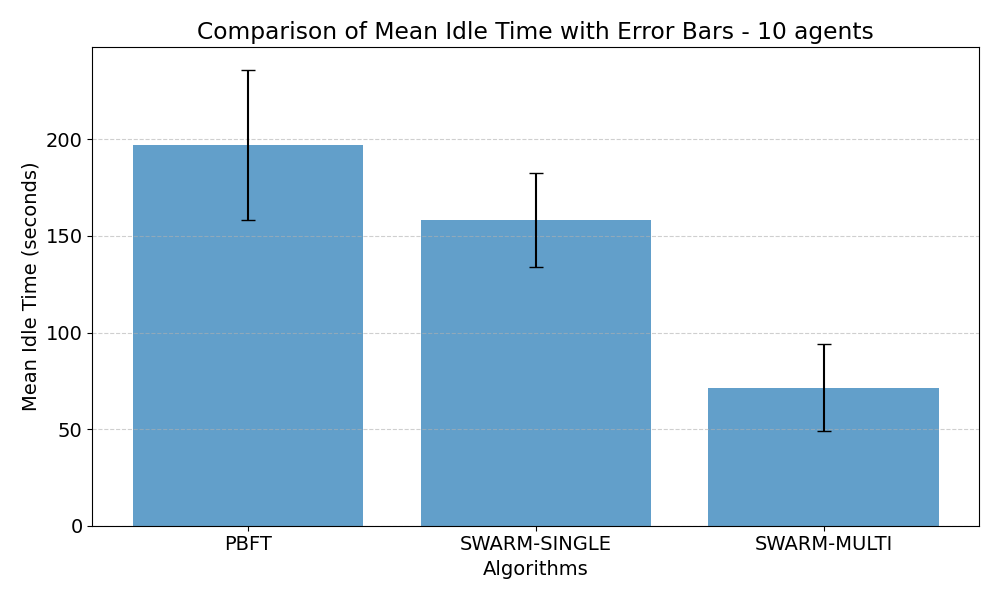
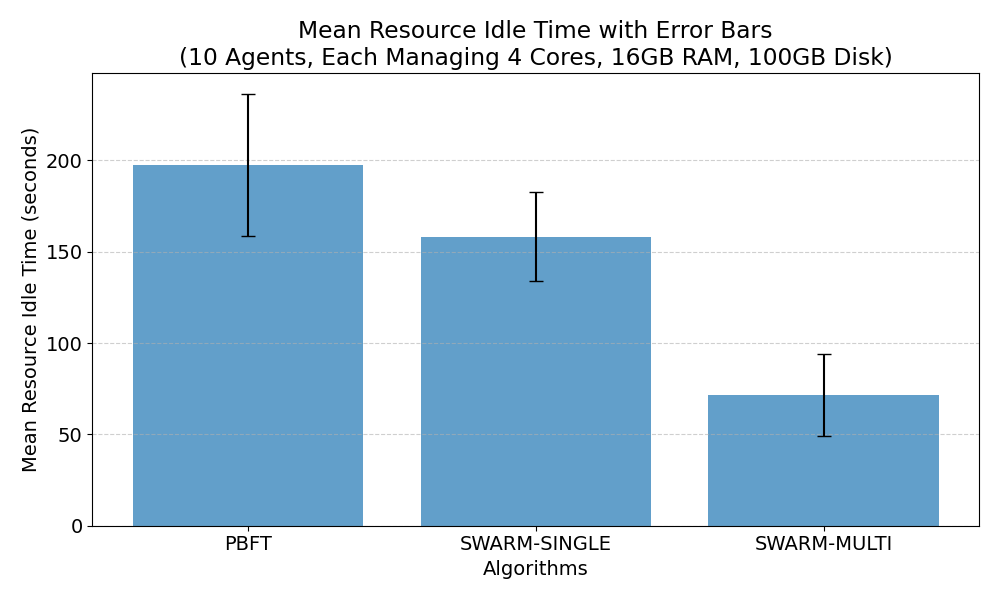
updated plots

diff --git a/runs/comparison.py b/runs/comparison.py
@@ -221,8 +221,10 @@ def plot_means_median_histogram_error_bars(data_list: List[Dict[str, Any]], numb
     plt.figure(figsize=(10, 6))
     plt.bar(x, means, yerr=np.array(ci_errors).T, capsize=5, alpha=0.7, tick_label=algorithms)
     plt.xlabel('Algorithms')
-    plt.ylabel('Mean Idle Time (seconds)')
-    plt.title(f'Comparison of Mean Idle Time with Error Bars - {number_of_agents} agents')
+    plt.ylabel('Mean Resource Idle Time (seconds)')
+    plt.title(f'Mean Resource Idle Time with Error Bars\n'
+              f'({number_of_agents} Agents, Each Managing 4 Cores, 16GB RAM, 100GB Disk)')
+    #plt.title(f'Comparison of Mean Idle Time with Error Bars - {number_of_agents} agents')
     plt.grid(axis='y', linestyle='--', alpha=0.6)
     plt.tight_layout()
     plt.savefig(f'histogram_idle_time_with_error_bars_{number_of_agents}.png')
@@ -409,7 +411,7 @@ def plots(number_of_agents: int):
     if number_of_agents == 10:
         data_raft = compute_metrics(run_directory=f"./raft/10/repeated",
                                     number_of_agents=10, algo="Raft")
-        data_list = [data_raft, data_swarm_multi]
+        data_list = [data_pbft, data_swarm_single, data_raft, data_swarm_multi]
         plot_means_median_line(number_of_agents=10, data_list=data_list, file_name_suffix="raft")
 
 

diff --git a/runs/comp-raft-swarm-pbft.py b/runs/comp-raft-swarm-pbft.py
@@ -5,7 +5,7 @@ import matplotlib.pyplot as plt
 # Define file paths for each algorithm and agent count
 raft_file_paths = ['./raft/3/scheduling_latency.csv',
                    './raft/5/scheduling_latency.csv',
-                   './raft/10/scheduling_latency.csv']
+                   './raft/10/repeated/run50/scheduling_latency_0.csv']
 pbft_file_paths = ['./pbft/3/repeated/run50/scheduling_latency_0.csv',
                    './pbft/5/repeated/run50/scheduling_latency_0.csv',
                    './pbft/10/repeated/run50/scheduling_latency_0.csv']
@@ -43,7 +43,7 @@ color_map = {
     "PBFT": "#1f77b4",
     "SWARM-SINGLE": "#ff7f0e",
     "SWARM-MULTI": "#2ca02c",
-    "Raft": "#d62728"
+    "Raft": "#9467bd"
 }
 
 # Set up the figure with two subplots
@@ -77,7 +77,6 @@ def plot_all_algorithms_fig(data):
     plt.ylabel('Scheduling Latency (seconds)', fontsize=8)
     plt.grid(True)
     plt.legend(fontsize='medium')
-
 
 
 if __name__ == '__main__':
